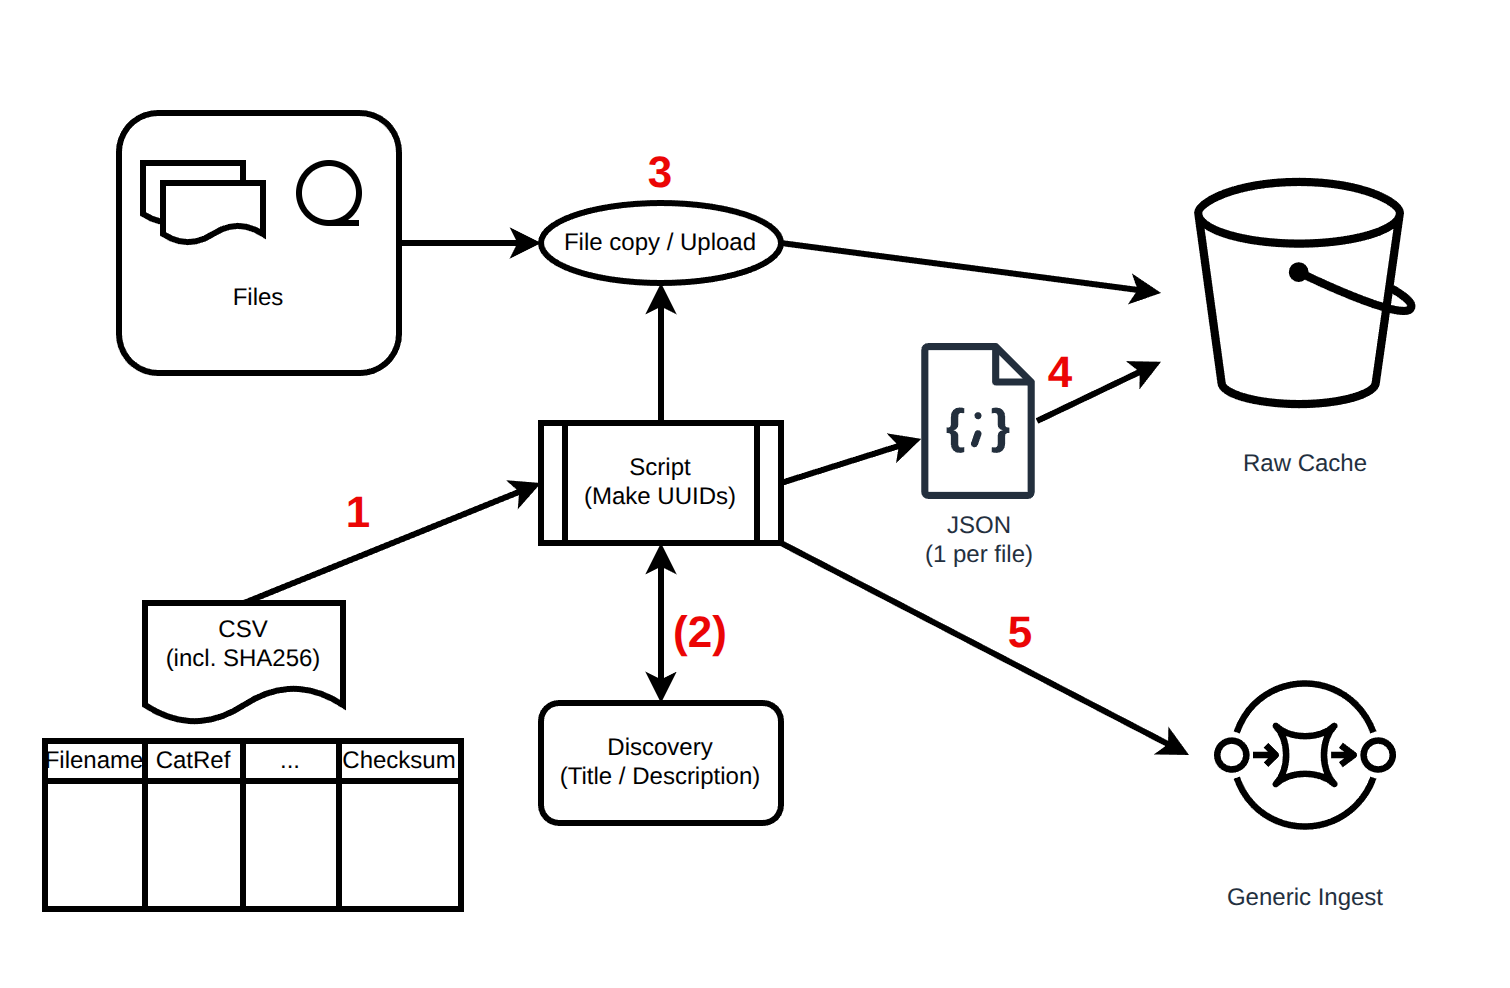
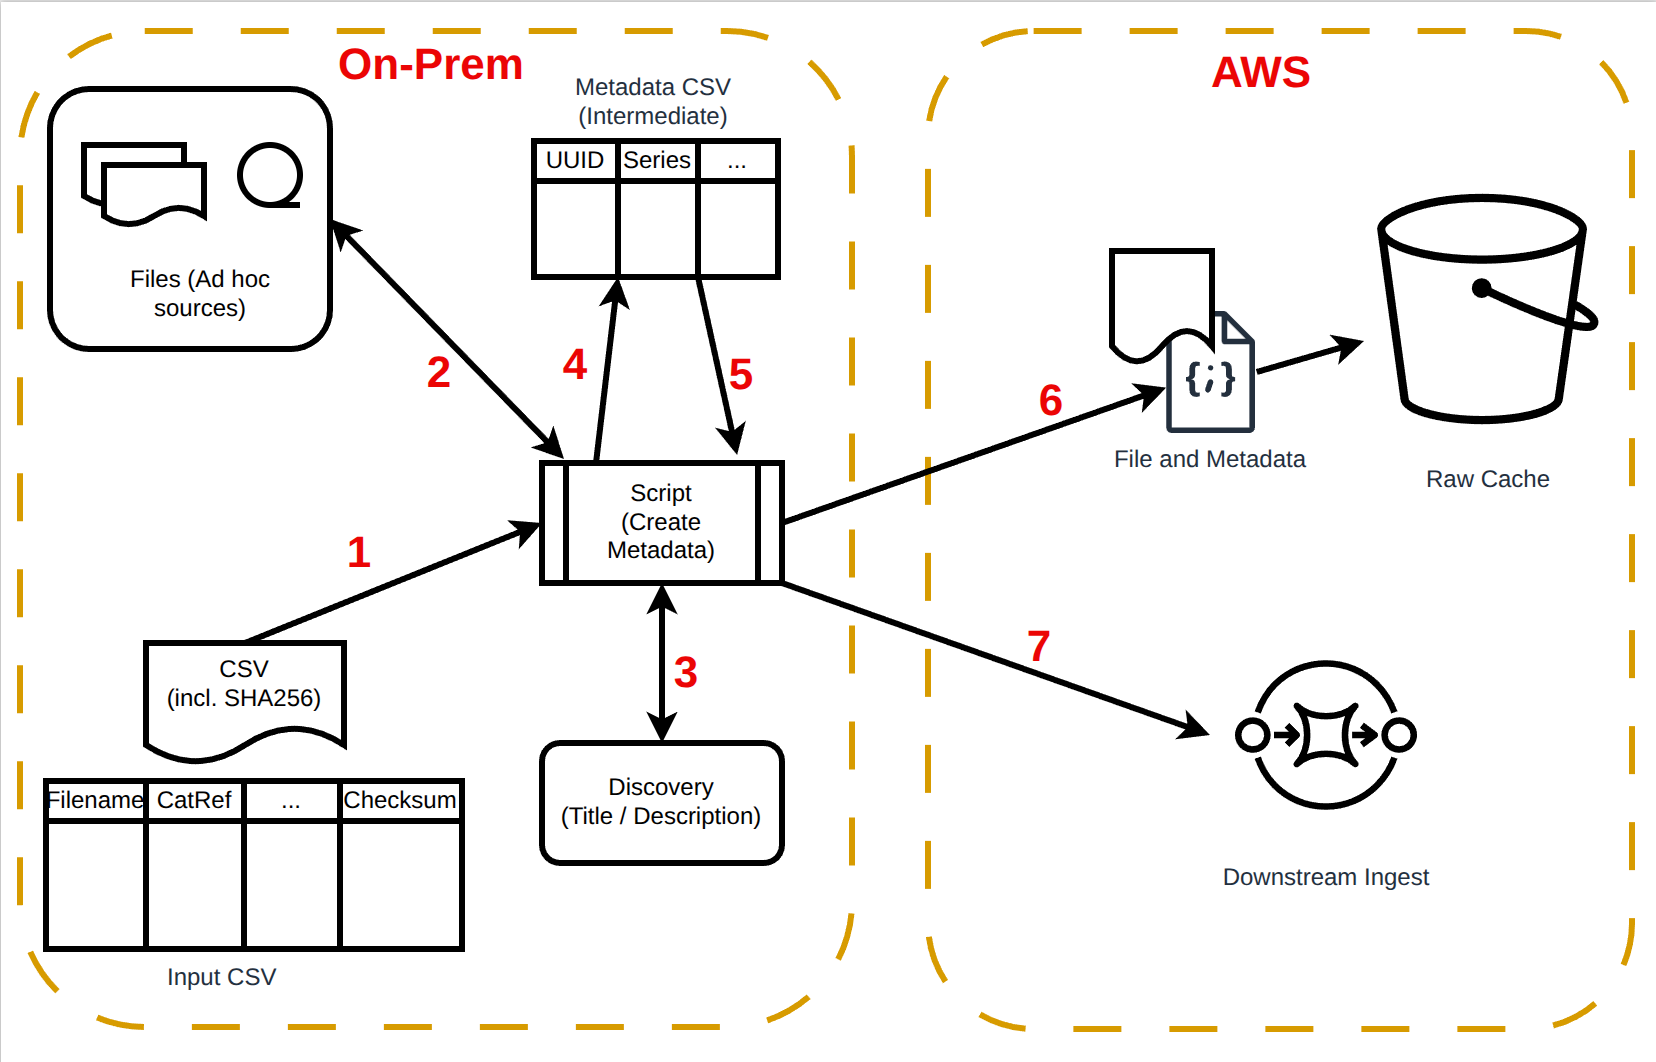
ReadMe updated, diagram changed to reflect the design change

diff --git a/python/ad-hoc-ingest/ad_hoc_ingest.py b/python/ad-hoc-ingest/ad_hoc_ingest.py
@@ -16,7 +16,6 @@ from moto.utilities.utils import str2bool
 import aws_interactions
 import dataset_validator
 import discovery_client
-from dataset_validator import Js8Validator
 
 
 def build_argument_parser():
@@ -280,7 +279,7 @@ def main():
     is_valid = True
     is_dry_run = False if args.dry_run == False else True
     try:
-        is_valid = dataset_validator.validate_dataset(Js8Validator(), data_set, str(input_file_path), is_dry_run)
+        is_valid = dataset_validator.validate_dataset(dataset_validator.Js8Validator(), data_set, str(input_file_path), is_dry_run)
     except Exception as e:
         raise Exception(f"Inputs supplied to the process are invalid, please fix errors before continuing: {e}")
 

diff --git a/python/ad-hoc-ingest/README.md b/python/ad-hoc-ingest/README.md
@@ -4,63 +4,50 @@ This directory contains the scripts used for ingesting the data from ad hoc sour
 The National Archives has received over the years. The scripts and process strictly applies to the data 
 which meets the following criteria:
 - The data has been already received and held on some storage media 
-- The data is NOT ingested in the existing DRI system
+- The data is NOT ingested into the existing preservation system
 - The data has been already available to the public on Discovery.
 
 ## The process:
 ![adhoc-ingest-flow.png](images/adhoc-ingest-flow.png)
 
-There is a script at the centre of the ingest process which drives the generic ingest. The script receives a CSV file as an input. 
-This CSV file contains the filenames, catalog reference, any other information and a checksum. The files are 
-located in a folder or other media which can be made accessible to the script. The script works chronologically n steps 
-as shown in the picture.
+There is a script (ad_hoc_ingest.py) at the centre of the ingest process which drives the generic ingest. The script receives a CSV file as an input. 
+This input CSV file contains the filenames, catalog reference, a checksum and any other information. The files are 
+located in a folder or other media which can be made accessible to the script. The script works chronologically in steps 
+as shown in the diagram.
 
-- Read the CSV file and find out the details for each file 
-- Optionally, Get additional metadata from discovery (such as Title, Description etc.)
-- Generates an intermediate CSV file which has each row representing one metadata file. 
-  - This CSV is useful for users to inspect the metadata before actual ingest
-- If the user has run the script with `dry_run` set to true, the script terminates at this point, otherwise it carries on to next step 
-- Copy the file from the source to raw-cache bucket 
-- Generate metadata Json from the intermediate CSV per row and copy the metadata json to raw-cache bucket
-- Send a message to the generic ingest queue to kick start the downstream process of ingest.
+
+### Script steps
+1. Read the input CSV file, where each row in the CSV has Catlog Reference, Filename and a Checksum corresponding to each file to be ingested. 
+2. Read the files to be ingested from ad-hoc source and carry out validations on the input file.
+   - The validations depend on Series to be ingested. 
+For each row in the input CSV file,
+3. Use Discovery API to get hold of the Title, Description and Former References.
+4. Generate metadata and add it as a row to intermediate metadata CSV file.
+   - The advantage of having metadata in CSV is, the user can examine the potential final metadata before ingesting. 
+For each row in the Metadata CSV file,
+5. Generate a Metadata JSON file and get absolute path of the file to be ingested. 
+6. Upload the Metadata JSON and the file to `dr2-ingest-raw-cache` bucket. 
+7. Send a message to `dr2-preingest-adhoc-importer` to trigger the downstream preingest process.
+
 
 ## How to run the script:
-The script needs to connect to Discovery to get some metadata for the records. It also needs to connect to 
-AWS services to upload the file into S3 bucket and send a message to <env>-dr2-preingest-dri-importer queue 
+The script needs to connect to Discovery API to get some metadata for the records. It also needs to connect to 
+AWS services to upload each file and its metadata into S3 bucket and send a message to `dr2-preingest-adhoc-importer` queue 
 to trigger the downstream process. As a result, the script needs to be run from a machine which has access 
 to the internet by a user who has permissions to access the relevant AWS services. 
 
 ### Script Arguments 
-| Name              | Description                                                                       |
-|-------------------|-----------------------------------------------------------------------------------|
-| -i   --input      | A CSV (or Excel) file having rows corresponding to the data to be ingested. <br/> |
-|                   | &emsp;Each row has Catalog Reference (catRef), name of the file (fileName) with   |
-|                   | absolute path, and optionally, checksum for the file to be ingested               |
-| -e  --environment | Name of the environment where the records are ingested (e.g. intg, prd)           |
-|                   | The script makes use of the environment name to construct names of the AWS        |
-|                   | resources (default 'INTG')                                                        |
-| -d   --dry_run    | Boolean value, when True indicates that the script should only validate the       |
-|                   | data but stop short of actually uploading it to S3. False indicates that          |
-|                   | the script should ingest data as well. (default False)                            |
-| -o   --output     | Optional file path where the intermediate results are stored. When available the  |
-|                   | output of dry run is stored in that file. If not given, the script generates a    |
-|                   | file in the "tmp" folder of the machine                                           |
 
+`-i   --input`
+    A CSV (or Excel) file having rows corresponding to the data to be ingested. Each row has a Catalog Reference (catRef), name of the file (fileName) with absolute path, and optionally, a checksum for the file to be ingested
 
+`-e  --environment`
+    Name of the environment where the records are ingested (e.g. intg, prod). The script makes use of the environment name to construct names of the AWS resources (default 'intg')
 
-### Script steps
-1. Read the input file
-2. Carry out validations on the input file 
-   - Unique columns.
-   - Mandatory columns.
-   - Non nullable columns
-   - Whether the file exists at the path mentioned
-3. Read one row of the input file at a time 
-4. Generate metadata for that row
-5. Gather additional metadata from Discovery
-6. Write the generated metadata as a row into another CSV file, which the users can examine before actual ingest.
-7. Generate metadata json iteratively for each record from the above CSV 
-8. Upload the metadata json file and the data file to S3. 
-9. Send a message to trigger the downstream processing.
+`-d   --dry_run`
+    Boolean value, when True, indicates that the script should only validate the data but stop short of actually uploading it to S3. False indicates that the script should ingest data as well. (default False)
+
+`-o   --output` 
+    Optional file path where the intermediate results are stored. When available, the output of dry run is stored in that file. If not given, the script generates a file in the "tmp" folder of the machine
 
 
